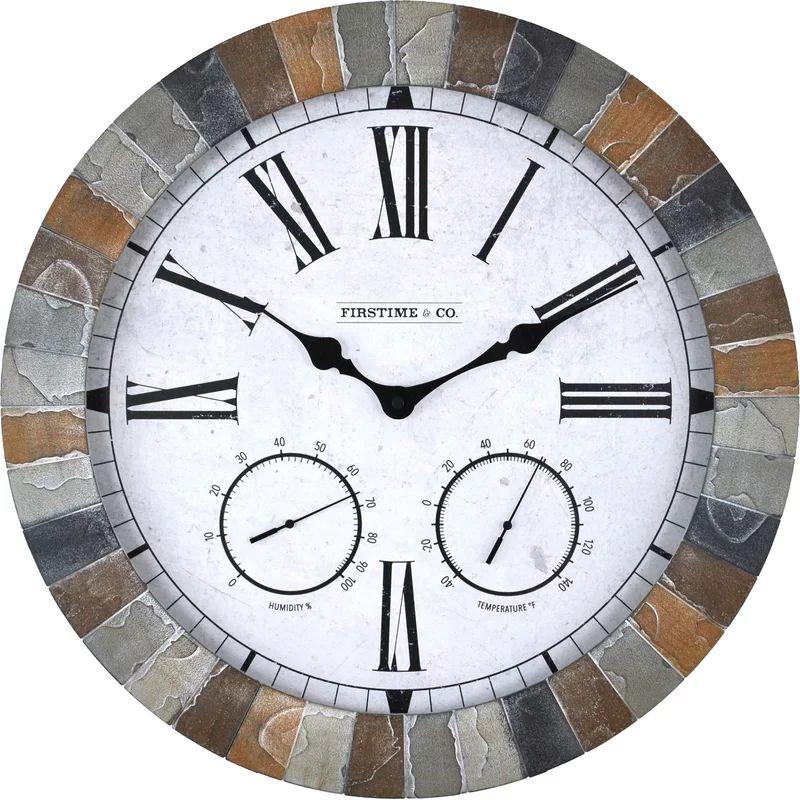
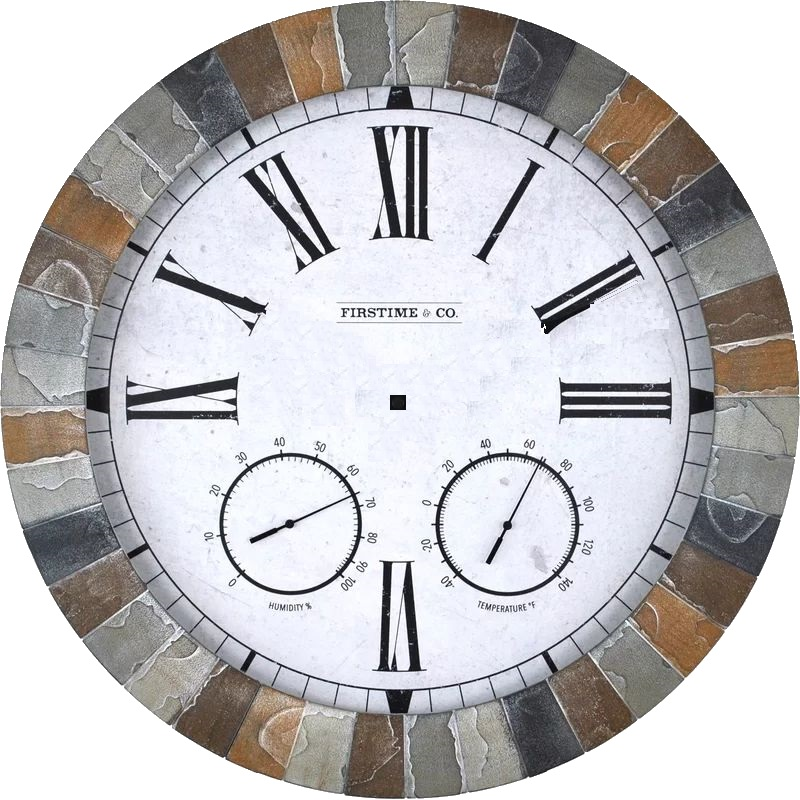
Clock - added minute hand

Changed region(s): [[0.3438, 0.4062, 0.5625, 0.5312], [0.5625, 0.4062, 0.6875, 0.4688], [0.75, 0.3438, 0.7812, 0.375]]

diff --git a/Clock/WpfAnalogClock/WpfAnalogClock/Constrols/AnalogClock.xaml b/Clock/WpfAnalogClock/WpfAnalogClock/Constrols/AnalogClock.xaml
@@ -7,8 +7,16 @@
              mc:Ignorable="d" 
              d:DesignHeight="300" d:DesignWidth="300">
     <Grid>
-        <Image Source="./Images/StoneRoundClock1.jpg">
-            
+        <Image Source="/Images/StoneRoundClock1.jpg" HorizontalAlignment="Stretch" VerticalAlignment="Stretch"/>
+        <Image Grid.Row="0" Grid.Column="0" Source="/Images/MinuteHand1.png" HorizontalAlignment="Center" VerticalAlignment="Center">
+            <Image.RenderTransform>
+                <ScaleTransform ScaleX="1" ScaleY="1"/>
+            </Image.RenderTransform>
+            <Image.LayoutTransform>
+                <TransformGroup>
+                    <RotateTransform x:Name="rotateMinute" Angle="10" CenterX="10" CenterY="300" />
+                </TransformGroup>
+            </Image.LayoutTransform>
         </Image>
     </Grid>
 </UserControl>

diff --git a/Clock/WpfAnalogClock/WpfAnalogClock/Constrols/AnalogClock.xaml.cs b/Clock/WpfAnalogClock/WpfAnalogClock/Constrols/AnalogClock.xaml.cs
@@ -12,6 +12,7 @@ using System.Windows.Media;
 using System.Windows.Media.Imaging;
 using System.Windows.Navigation;
 using System.Windows.Shapes;
+using System.Windows.Threading;
 
 namespace WpfAnalogClock.Constrols
 {
@@ -20,11 +21,23 @@ namespace WpfAnalogClock.Constrols
     /// </summary>
     public partial class AnalogClock : UserControl
     {
+        DispatcherTimer dispatcherTimer;
+
         public AnalogClock()
         {
             InitializeComponent();
 
-            this.DataContext = this;
+            dispatcherTimer = new DispatcherTimer();
+            dispatcherTimer.Tick += new EventHandler(dispatcherTimer_Tick);
+            dispatcherTimer.Interval = new TimeSpan(0, 0, 1);
+
+            dispatcherTimer.Start();
+        }
+
+        private void dispatcherTimer_Tick(object sender, EventArgs e)
+        {
+            DateTime now = DateTime.Now;
+            rotateMinute.Angle = now.Second * 6;// / Math.PI;
         }
     }
 }
